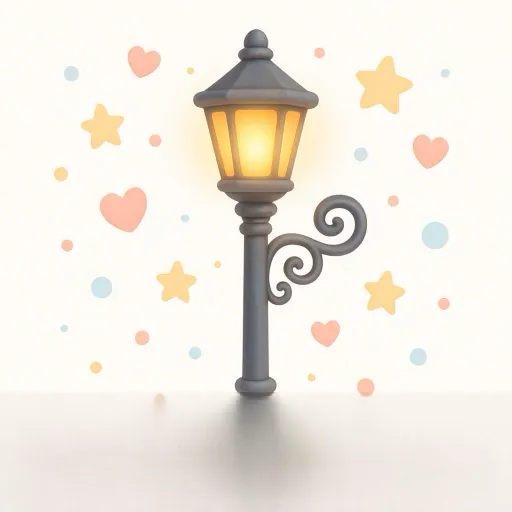
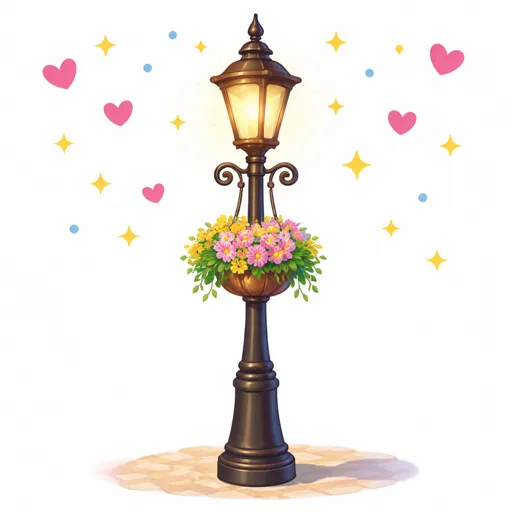
fanal: zamena mutne verzije oštrom (već postojala kao fanall.png) + SW v11

diff --git a/public/sw.js b/public/sw.js
@@ -1,4 +1,4 @@
-const CACHE_NAME = "catala-v10";
+const CACHE_NAME = "catala-v11";
 const STATIC_ASSETS = [
   "/",
   "/manifest.json",
